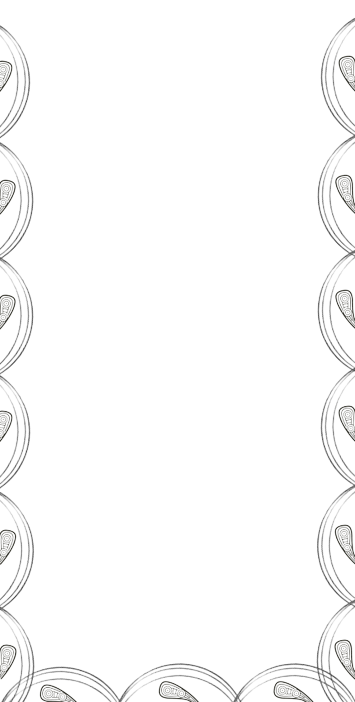
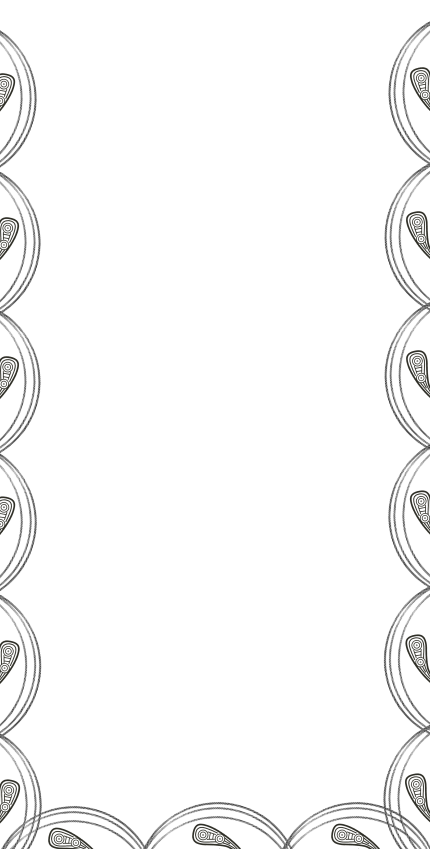
🐛 fix: fixed images for Page component

diff --git a/components/Page.js b/components/Page.js
@@ -4,6 +4,10 @@ import { Image, StyleSheet, View } from "react-native";
 const Page = ({ children }) => {
   return (
     <View style={styles.container}>
+      <Image
+        style={styles.bgImageUpper}
+        source={require("../assets/page-bg-upper.png")}
+      />
       <Image style={styles.logoImg} source={require("../assets/logo.png")} />
       <Image style={styles.bgImage} source={require("../assets/page-bg.png")} />
       {children}
@@ -20,10 +24,26 @@ const styles = StyleSheet.create({
   },
   bgImage: {
     position: "absolute",
-    top: 0,
     left: 0,
+    bottom: -35,
     width: "100%",
     height: "100%",
+    objectFit: "contain",
+  },
+  bgImageUpper: {
+    position: "absolute",
+    left: 0,
+    top: 0,
+    width: "100%",
+    objectFit: "contain",
+  },
+  bgImage: {
+    position: "absolute",
+    left: 0,
+    bottom: -35,
+    width: "100%",
+    height: "100%",
+    objectFit: "contain",
   },
   logoImg: {
     position: "absolute",
